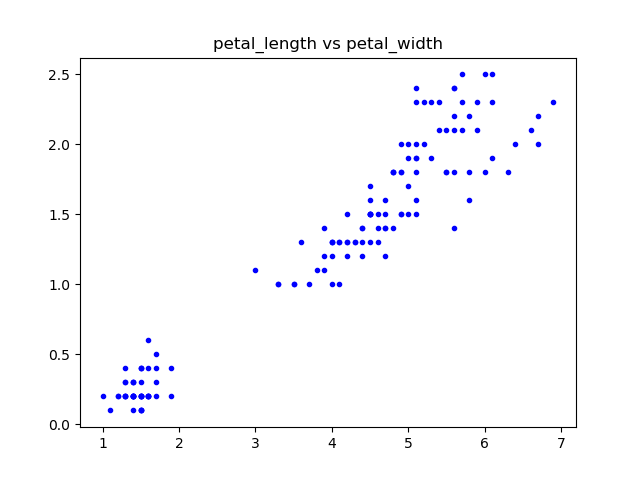
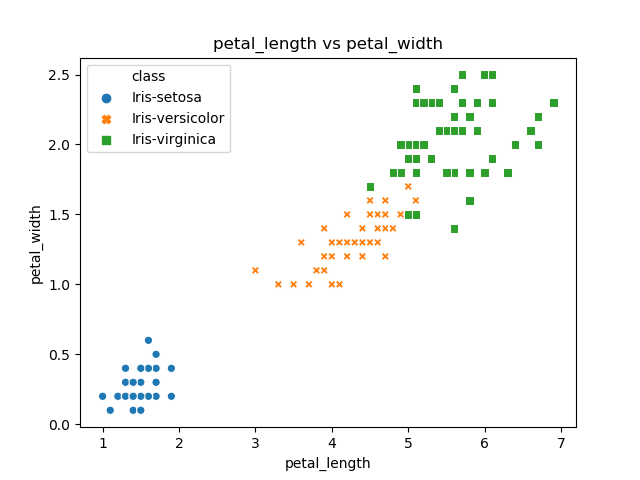
Changed to use Seaborn to create scatter plots. Scatter plots coloured and axis labeled.

diff --git a/analysis.py b/analysis.py
@@ -6,6 +6,7 @@
 
 import pandas as pd
 import matplotlib.pyplot as plt
+import seaborn as sns
 
 
 # Function to create a histogram of each variable
@@ -36,6 +37,20 @@ def scatter_plot_pair(df):
             plt.savefig(f"{scatter_plot_title}.png")
 
 
+# Function to output a scatter plot for each set of variables using the seaborn library
+def scatter_plot_pair_seaborn(df):
+    for data_variable in data_variables:
+        for data_variable2 in data_variables:
+            if data_variable2 == data_variable:
+                continue
+            plot = sns.scatterplot(x=data_variable, y=data_variable2, hue="class", style="class",
+            data=df)
+            scatter_plot_title = f"{data_variable} vs {data_variable2}"
+            plot.set_title(scatter_plot_title)
+            plot.get_figure().savefig(f"{scatter_plot_title}.png")
+            plot.get_figure().clf() 
+
+
 # Name of each variable in the dataset
 data_variables = ("sepal_length", "sepal_width", "petal_length", "petal_width")
 
@@ -52,4 +67,5 @@ write_summary(summary_file, iris_df)
 create_histograms(iris_df)
 
 # Output scatter plot each set of variables
-scatter_plot_pair(iris_df)
+scatter_plot_pair_seaborn(iris_df)
+#scatter_plot_pair(iris_df)
